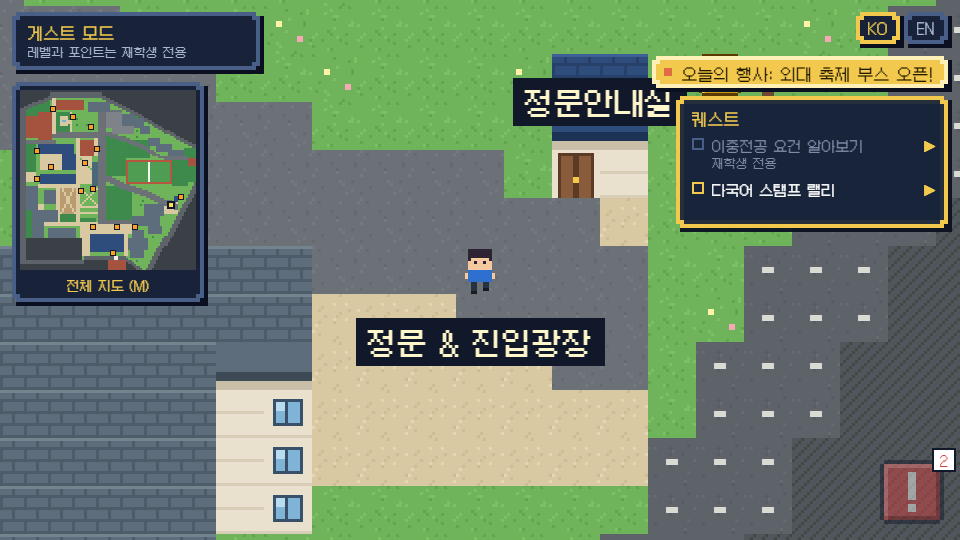
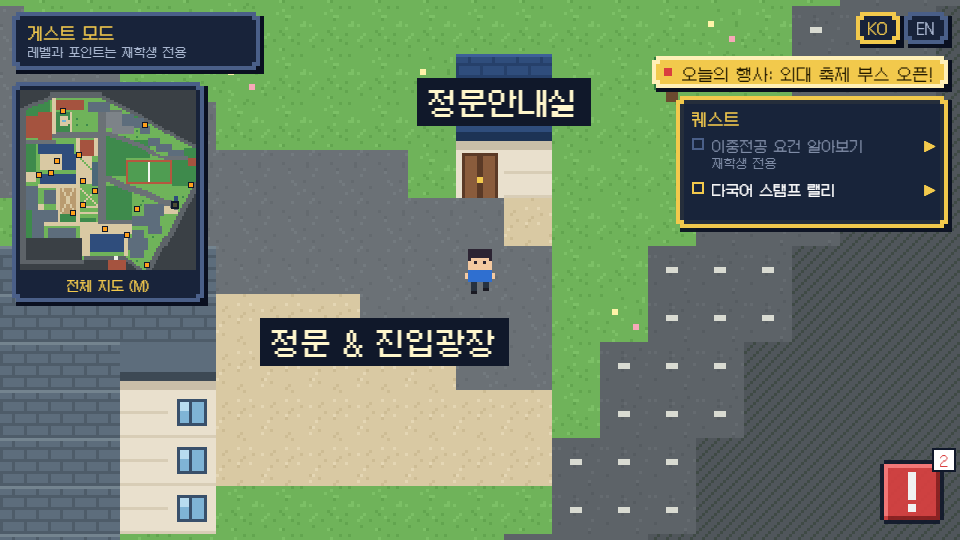
fix: 시작 위치를 정문 광장 안에서 동쪽 2칸 옮김 — 퀘스트 패널이 정문안내실 간판을 가리지 않게

diff --git a/src/data/campus.js b/src/data/campus.js
@@ -12,8 +12,8 @@ import { buildingInfo } from "./buildingInfo.js";
  */
 export const MAP_WIDTH = 88;
 export const MAP_HEIGHT = 90;
-// 정문 & 진입광장. 시작 화면에서 정문안내실 이름표가 상단 검색창에 가리지 않는 자리입니다.
-export const SPAWN = { x: 75, y: 57 };
+// 정문 & 진입광장. 시작 화면에서 정문안내실 간판이 상단 검색창 · 오른쪽 퀘스트 패널에 가리지 않는 자리입니다.
+export const SPAWN = { x: 77, y: 57 };
 
 // HUFS MAP 공식 좌표(기준점 37.5975, 127.0585에서 잰 미터, E=동쪽+, N=북쪽+)를 타일로 바꿉니다.
 export const officialToTile = (E, N) => ({ x: Math.floor((E + 152) / 4), y: Math.floor((128 - N) / 4) });
